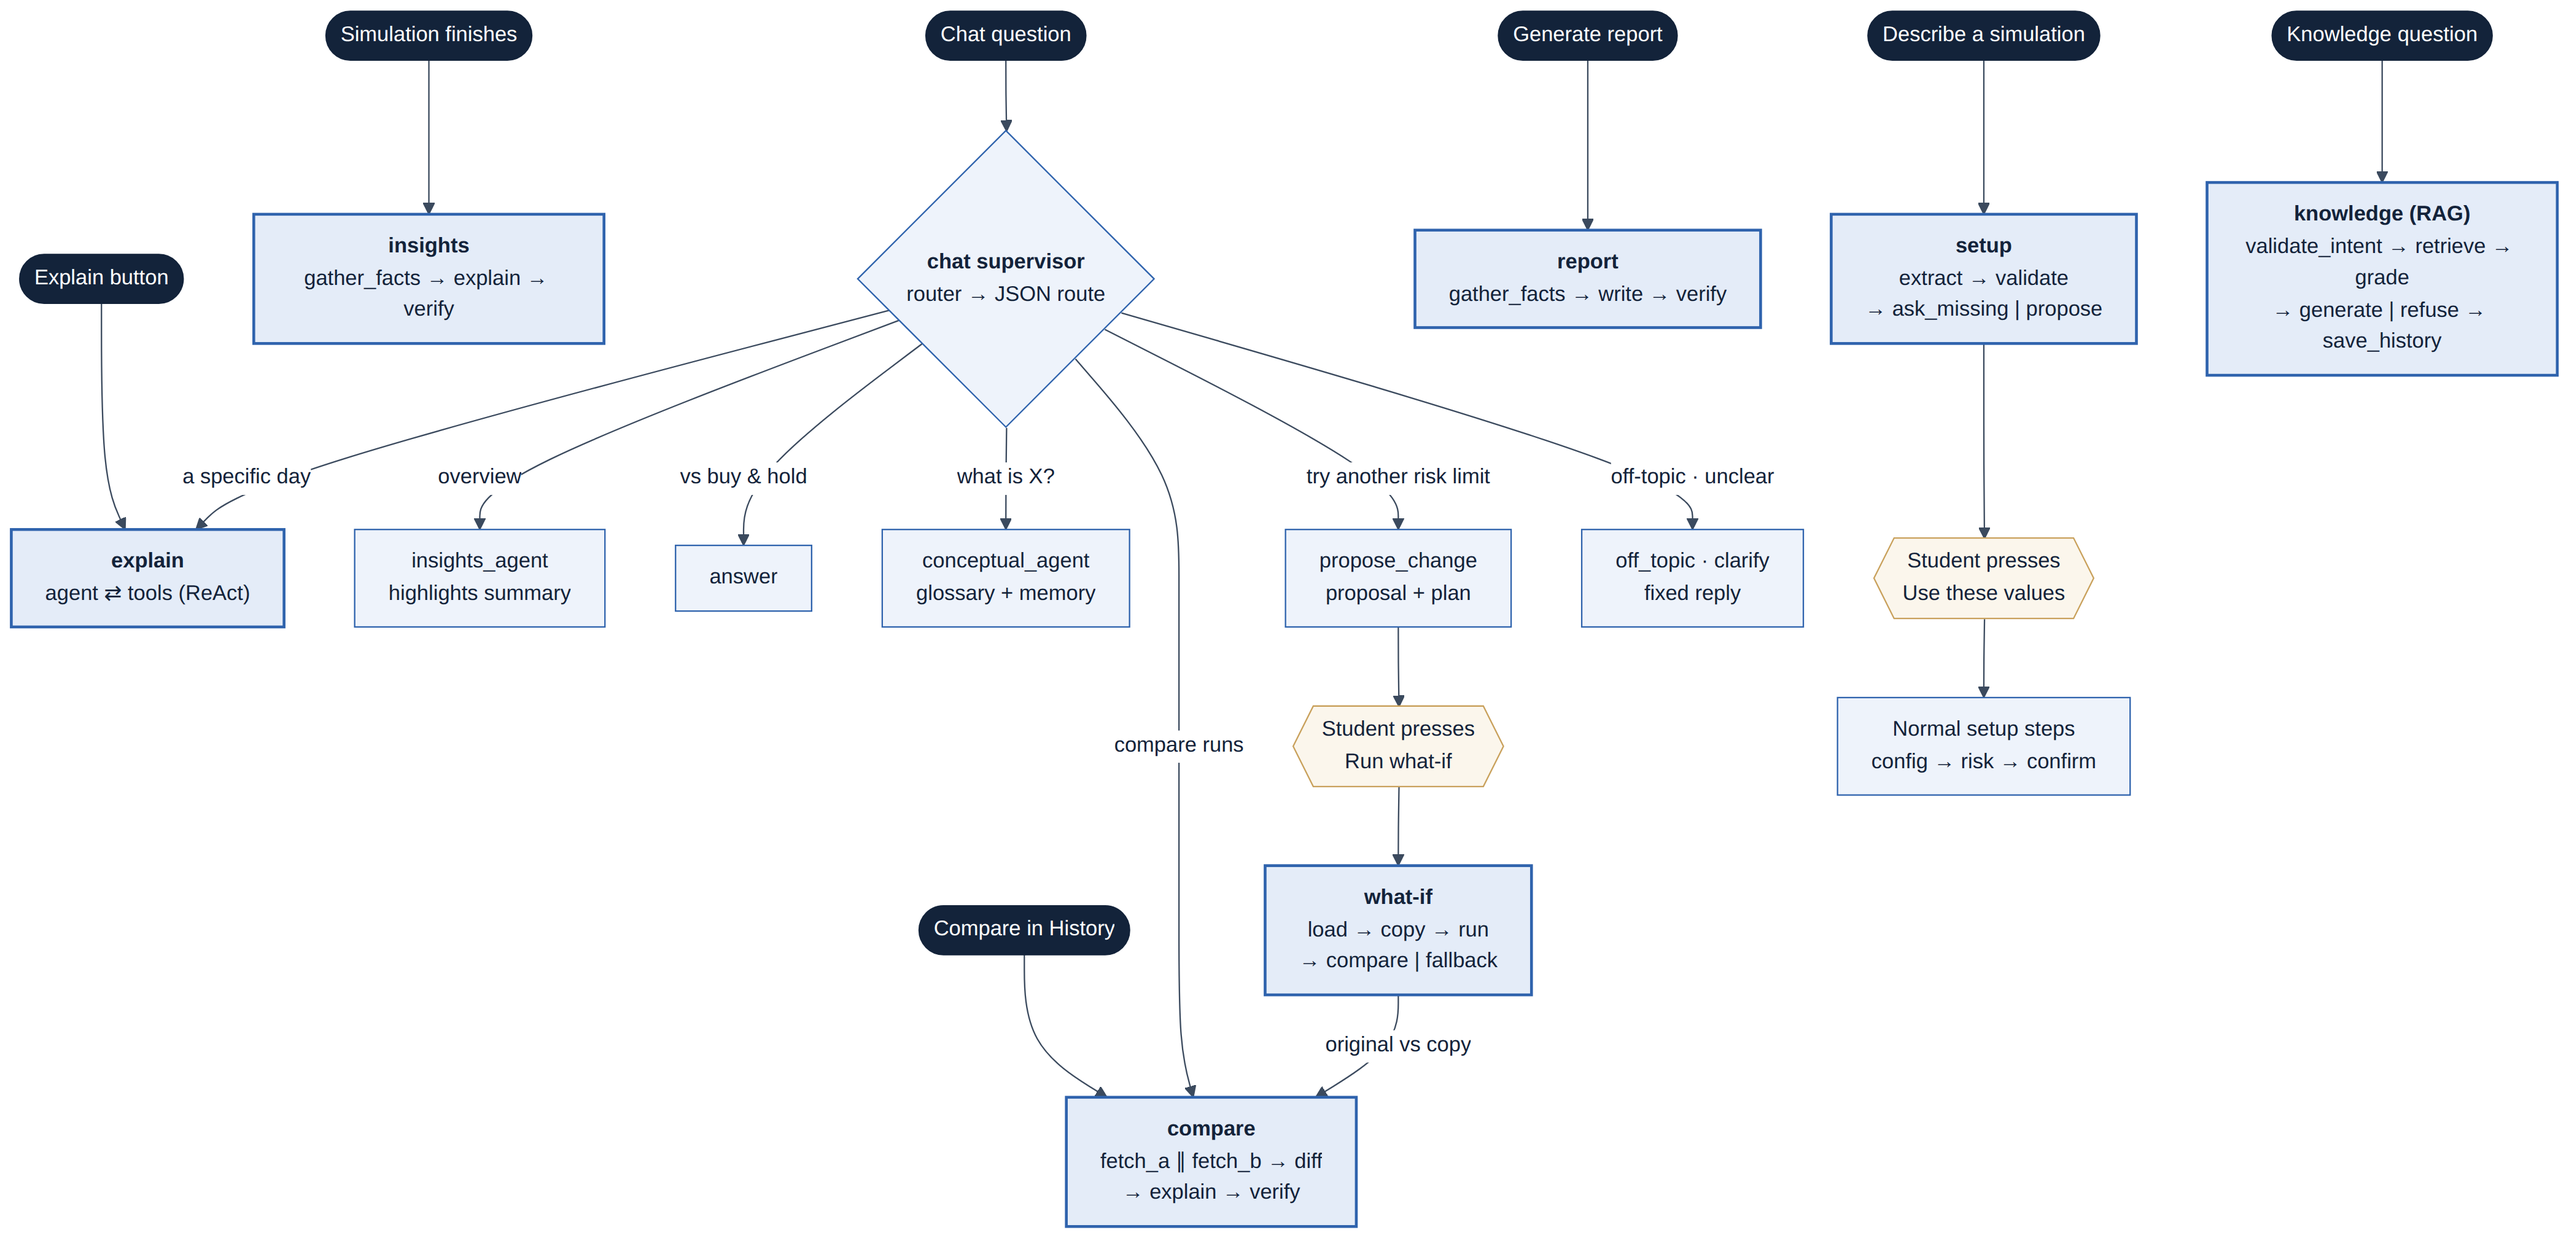
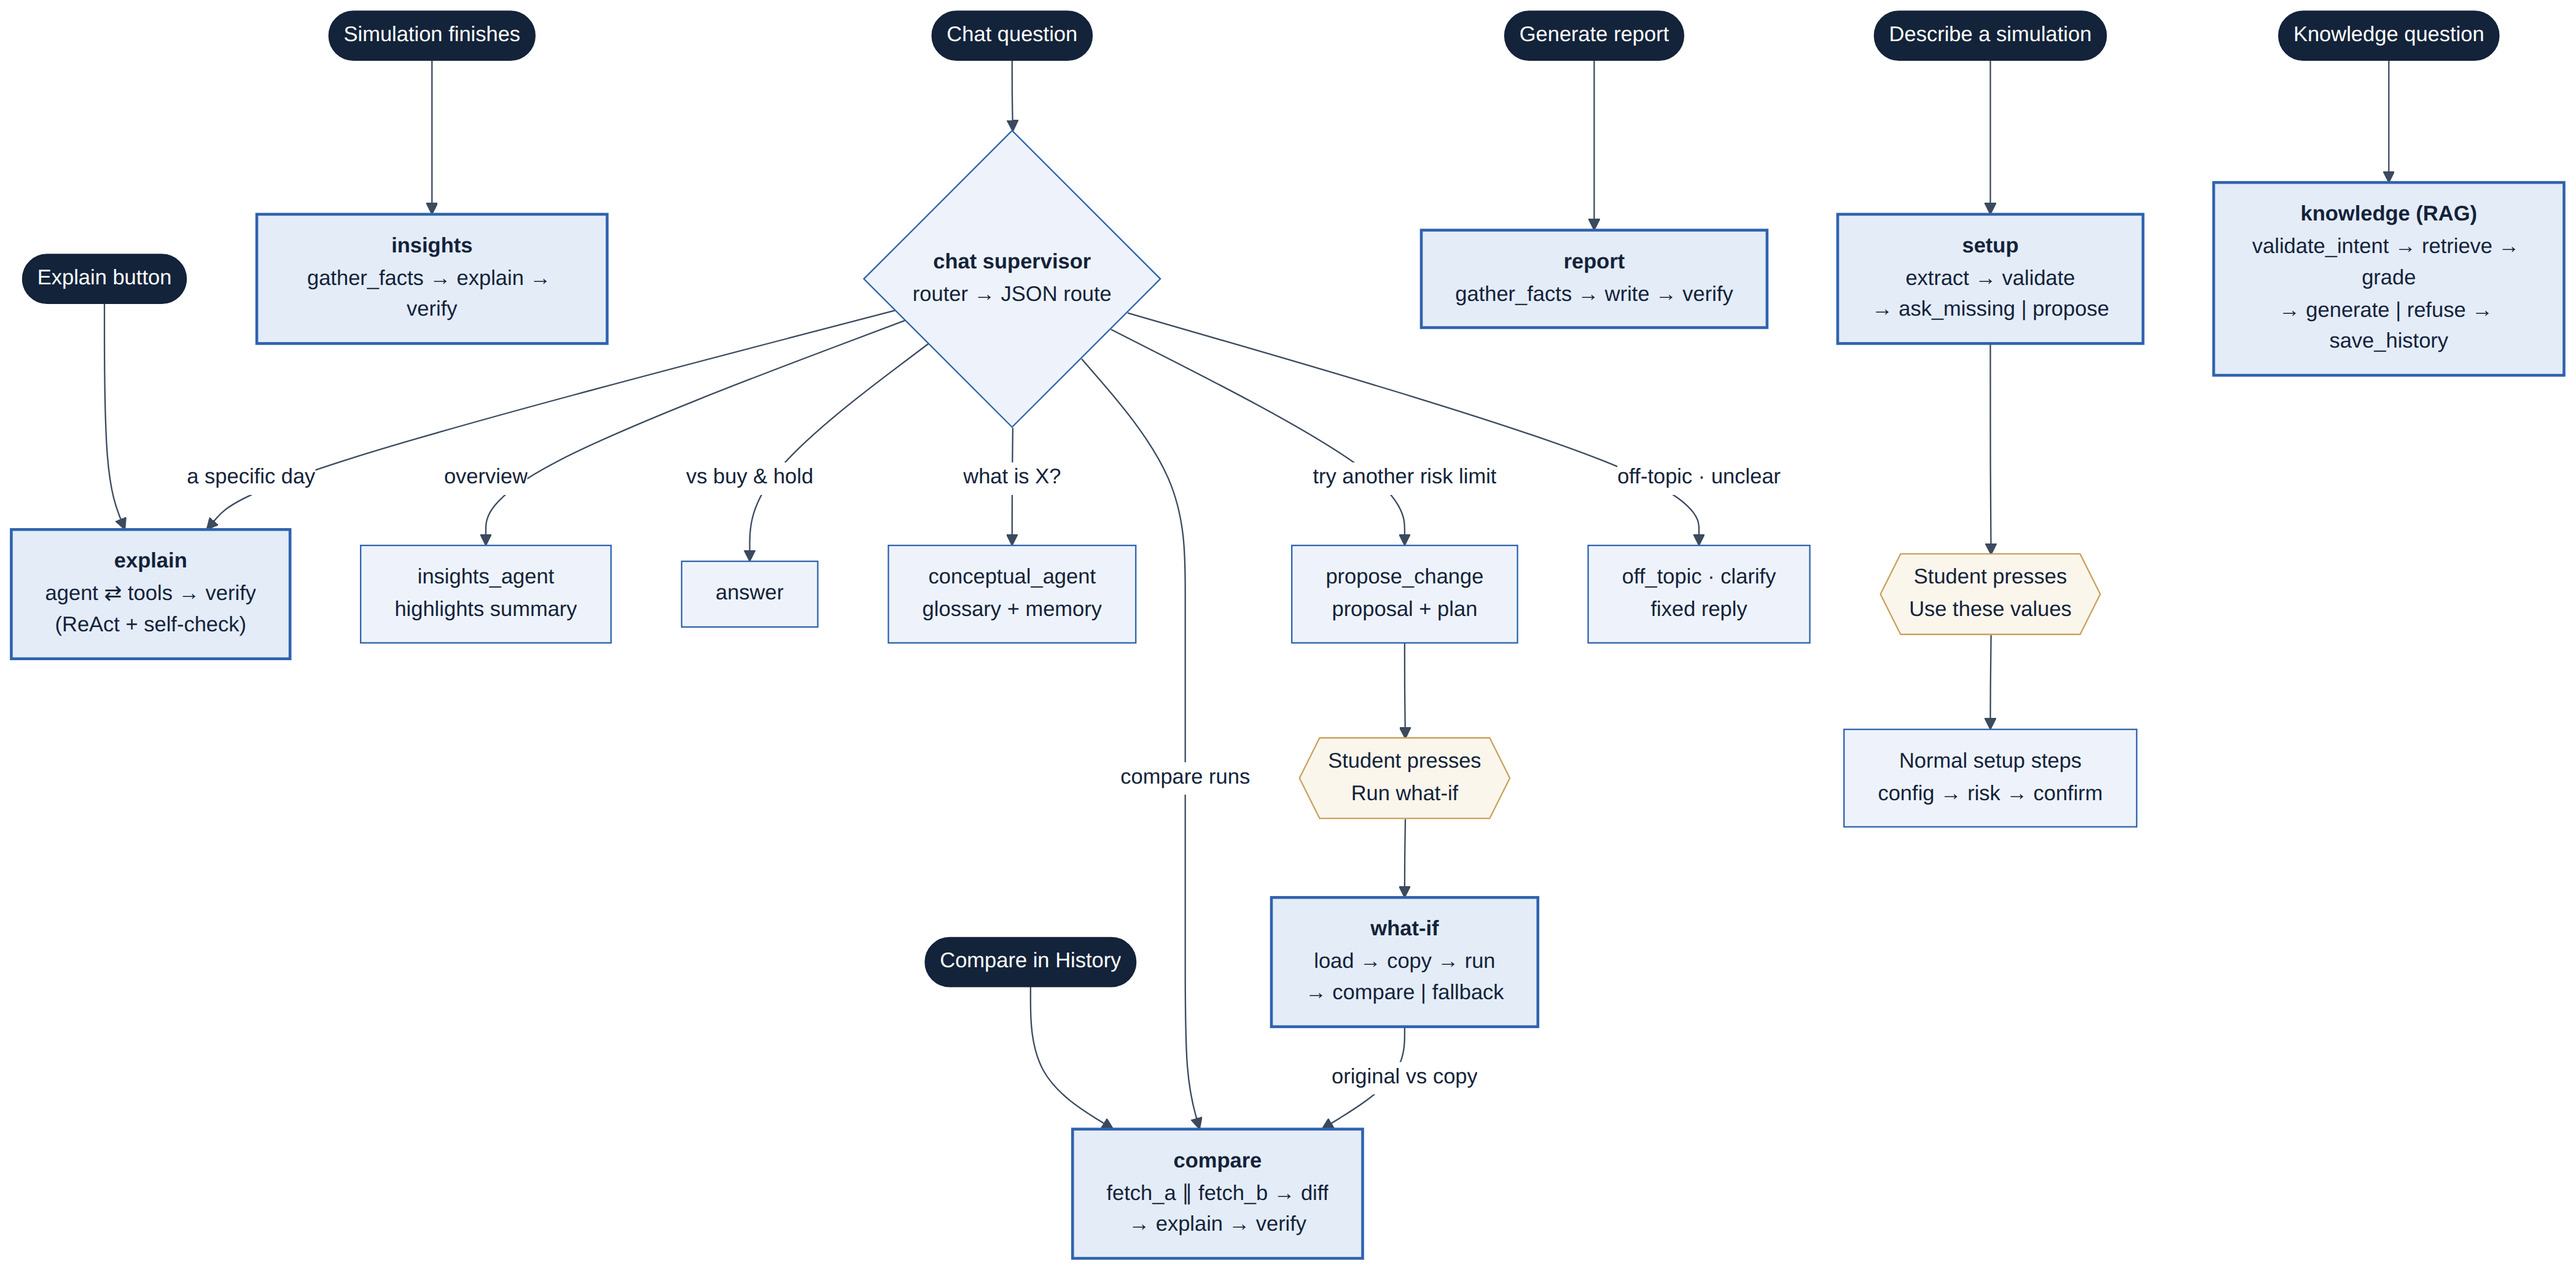
docs(agents): export every per-agent diagram with its tools
- docs/agents/graphs/<name>.png for all 9 diagrams (overview + 8 agents),
  each showing its nodes and the tools and data every node uses.
- Diagrams in agents.md restyled with a legend (node, tool, data, sub-graph);
  the overview reflects the explain verify step (US-31) and the chat diagram
  is reorganized. Each agent section links its image.

Claude-Session: https://claude.ai/code/session_01LZycAv3DB4EZdEbVF4KnBt

diff --git a/docs/agents.md b/docs/agents.md
@@ -22,23 +22,43 @@ The diagrams below are drawn by hand from the graphs exported from the code (`do
 Each entry point starts one graph. Some graphs reuse others, and two steps wait for the student before anything runs or is saved.
 
 ```mermaid
-flowchart LR
-    S((Student)) -->|Explain button| EXP[explain]
-    S -->|chat question| CHAT[chat supervisor]
-    S -->|Compare in History| CMP[compare]
-    S -->|Generate report| REP[report]
-    S -->|Describe a simulation| SET[setup]
-    S -->|Knowledge question| KNO[knowledge]
-    FIN([Simulation finished]) --> INS[insights]
+flowchart TB
+    T1(["Explain button"]) --> EXP
+    T2(["Simulation finishes"]) --> INS
+    T3(["Chat question"]) --> SUP
+    T4(["Compare in History"]) --> CMP
+    T5(["Generate report"]) --> REP
+    T6(["Describe a simulation"]) --> SET
+    T7(["Knowledge question"]) --> KNO
 
-    CHAT -->|explain_agent| EXP
-    CHAT -->|compare_agent| CMP
-    CHAT -->|propose_change| H1{{Student presses<br/>Run what-if}}
-    H1 --> WI[what-if]
-    WI -->|compare original vs copy| CMP
+    EXP["<b>explain</b><br/>agent ⇄ tools → verify<br/>(ReAct + self-check)"]
+    INS["<b>insights</b><br/>gather_facts → explain → verify"]
+    SUP{"<b>chat supervisor</b><br/>router → JSON route"}
+    CMP["<b>compare</b><br/>fetch_a ∥ fetch_b → diff<br/>→ explain → verify"]
+    REP["<b>report</b><br/>gather_facts → write → verify"]
+    SET["<b>setup</b><br/>extract → validate<br/>→ ask_missing | propose"]
+    KNO["<b>knowledge (RAG)</b><br/>validate_intent → retrieve → grade<br/>→ generate | refuse → save_history"]
 
-    SET -->|proposal| H2{{Student presses<br/>Use these values}}
-    H2 --> FORM[Normal setup steps<br/>config → risk → confirm]
+    SUP -->|a specific day| EXP
+    SUP -->|overview| SUM["insights_agent<br/>highlights summary"]
+    SUP -->|vs buy &amp; hold| ANS["answer"]
+    SUP -->|what is X?| CON["conceptual_agent<br/>glossary + memory"]
+    SUP -->|compare runs| CMP
+    SUP -->|try another risk limit| PROP["propose_change<br/>proposal + plan"]
+    SUP -->|"off-topic · unclear"| FIX["off_topic · clarify<br/>fixed reply"]
+
+    PROP --> H1{{"Student presses<br/>Run what-if"}}
+    H1 --> WI["<b>what-if</b><br/>load → copy → run<br/>→ compare | fallback"]
+    WI -->|original vs copy| CMP
+    SET --> H2{{"Student presses<br/>Use these values"}}
+    H2 --> FORM["Normal setup steps<br/>config → risk → confirm"]
+
+    classDef trigger fill:#13233a,stroke:#13233a,color:#ffffff
+    classDef subflow fill:#e4ecf8,stroke:#2f63ad,stroke-width:2px,color:#13233a
+    classDef human fill:#fbf6ec,stroke:#c9a15c,color:#13233a
+    class T1,T2,T3,T4,T5,T6,T7 trigger
+    class EXP,INS,CMP,REP,SET,KNO,WI subflow
+    class H1,H2 human
 ```
 
 ---
@@ -47,7 +67,17 @@ flowchart LR
 
 Solid arrows are the graph edges; dashed lines connect a node to the tools and data it uses. Conditional edges carry their condition as the label.
 
+| Shape | Meaning |
+|---|---|
+| Dark pill | `START` / `END` |
+| Blue box | Graph node |
+| Dashed gold box | Tool or helper the node calls |
+| Cream cylinder | Data read or written |
+| Double-border box | Another agent graph run inside the node |
+
 ### explain (US-20, US-31)
+
+Image: [`agents/graphs/explain.png`](agents/graphs/explain.png)
 
 ReAct loop: the model decides which tools to call, LangGraph runs them and gives the results back, until the model answers without tool calls. That draft then goes through a **verify** node (US-31): every sentence is checked and the ones with a date or number that no tool returned (or that promise future results) are removed, with a note for the student. The check is code, not the model grading itself. Builder: `build_agent_graph(simulation_id, user_id)`; the tools are bound to that simulation.
 
@@ -64,9 +94,19 @@ flowchart LR
     T -.- t1[get_price] & t3[get_indicators] & t5[get_market_regime] -.- d1[(simulation_signals)]
     T -.- t2[get_decision] & t6[get_ensemble_breakdown] -.- d2[(simulation_decisions)]
     T -.- t4[get_risk_config] -.- d3[(simulations +<br/>risk_configurations)]
+
+    classDef io fill:#13233a,stroke:#13233a,color:#ffffff
+    classDef tool fill:#ffffff,stroke:#c9a15c,stroke-dasharray:4 3,color:#13233a
+    classDef data fill:#fbf6ec,stroke:#c9a15c,color:#13233a
+    classDef subflow fill:#e4ecf8,stroke:#2f63ad,stroke-width:2px,color:#13233a
+    class S,E io
+    class t1,t2,t3,t4,t5,t6 tool
+    class d1,d2,d3 data
 ```
 
 ### chat (US-22/25)
+
+Image: [`agents/graphs/chat.png`](agents/graphs/chat.png)
 
 The `supervisor` asks the router model for a route as JSON (`routing/router.py`); Python validates it and resolves dates, risk proposals and the simulation to compare with. `propose_change`, `off_topic` and `clarify` answer directly from the supervisor and end the turn; `off_topic` and `clarify` always use fixed text, never the router's own wording.
 
@@ -79,19 +119,33 @@ flowchart TB
     SUP -->|answer| AN[answer]
     SUP -->|conceptual| CA[conceptual_agent]
     SUP -->|compare| CO[compare_agent]
-    SUP -->|propose_change / off_topic / clarify| E([END])
-    EA & IA & AN & CA & CO --> E
+    SUP -->|"propose_change · off_topic · clarify<br/>reply from the supervisor"| E([END])
 
     EA -.- g1[[explain graph]]
     IA -.- t1[summarize_simulation]
     AN -.- t2[buy_and_hold_comparison]
     CA -.- t3[glossary topics only<br/>+ relevant earlier turns]
     CO -.- g2[[compare graph<br/>compare_simulations_text]]
+    g1 ~~~ E
+    t1 ~~~ E
+    t2 ~~~ E
+    t3 ~~~ E
+    g2 ~~~ E
+    EA & IA & AN & CA & CO --> E
+
+    classDef io fill:#13233a,stroke:#13233a,color:#ffffff
+    classDef tool fill:#ffffff,stroke:#c9a15c,stroke-dasharray:4 3,color:#13233a
+    classDef subflow fill:#e4ecf8,stroke:#2f63ad,stroke-width:2px,color:#13233a
+    class S,E io
+    class h,t1,t2,t3 tool
+    class g1,g2 subflow
 ```
 
 The conversation is stored by a Postgres checkpointer (`modules/chat/checkpointer.py`, in-memory if `SUPABASE_DB_URL` is not set) and in `chat_messages`; `conceptual_agent` only sees the earlier turns relevant to the new question (`modules/chat/memory.py`). `propose_change` returns the proposal and its plan; it never changes anything (see what-if).
 
 ### insights (US-26)
+
+Image: [`agents/graphs/insights.png`](agents/graphs/insights.png)
 
 Started by the backend, not by a question, when a simulation reaches `FINISHED` or `STOPPED_BY_RISK`. The highlights are computed by code; the model only explains each one.
 
@@ -106,11 +160,21 @@ flowchart LR
 
     G -.- t1[get_run_overview] & t2[find_highlights] -.- d[(simulation, trades,<br/>equity curve, signals)]
     V -.- u[unverified_values]
+
+    classDef io fill:#13233a,stroke:#13233a,color:#ffffff
+    classDef tool fill:#ffffff,stroke:#c9a15c,stroke-dasharray:4 3,color:#13233a
+    classDef data fill:#fbf6ec,stroke:#c9a15c,color:#13233a
+    classDef subflow fill:#e4ecf8,stroke:#2f63ad,stroke-width:2px,color:#13233a
+    class S,E io
+    class t1,t2,u tool
+    class d data
 ```
 
 `modules/insights/service.py` stores the verified texts in `simulation_insights`.
 
 ### compare (US-27)
+
+Image: [`agents/graphs/compare.png`](agents/graphs/compare.png)
 
 Both simulations are fetched in parallel through tools bound to the student. Only a slice of each run is read, never its daily data.
 
@@ -125,11 +189,21 @@ flowchart LR
 
     A & B -.- t[simulation_slice<br/>ownership check] -.- d[("configuration, metrics,<br/>buy &amp; hold, highlights")]
     V -.- u[unverified_values · wrong_directions<br/>makes_promises]
+
+    classDef io fill:#13233a,stroke:#13233a,color:#ffffff
+    classDef tool fill:#ffffff,stroke:#c9a15c,stroke-dasharray:4 3,color:#13233a
+    classDef data fill:#fbf6ec,stroke:#c9a15c,color:#13233a
+    classDef subflow fill:#e4ecf8,stroke:#2f63ad,stroke-width:2px,color:#13233a
+    class S,E io
+    class t,u tool
+    class d data
 ```
 
 `diff` computes the configuration differences, the metric deltas, which run is better in each metric and the winner by total return. `verify` also rejects text that names the wrong run as the larger or smaller one. The `list_simulations` tool is used by the chat supervisor to resolve "my previous one".
 
 ### report (US-32)
+
+Image: [`agents/graphs/report.png`](agents/graphs/report.png)
 
 ```mermaid
 flowchart LR
@@ -141,11 +215,21 @@ flowchart LR
 
     G -.- t[load_report_data] -.- d[(configuration, results,<br/>metrics, trades, highlights)]
     V -.- u[unverified_values · makes_promises]
+
+    classDef io fill:#13233a,stroke:#13233a,color:#ffffff
+    classDef tool fill:#ffffff,stroke:#c9a15c,stroke-dasharray:4 3,color:#13233a
+    classDef data fill:#fbf6ec,stroke:#c9a15c,color:#13233a
+    classDef subflow fill:#e4ecf8,stroke:#2f63ad,stroke-width:2px,color:#13233a
+    class S,E io
+    class t,u tool
+    class d data
 ```
 
 The tables, figures and the disclaimer are written by code (`agents/report/facts.py`, `render.py`); a narrative that fails twice is dropped and the section keeps only its figures.
 
 ### setup (US-29)
+
+Image: [`agents/graphs/setup.png`](agents/graphs/setup.png)
 
 ```mermaid
 flowchart LR
@@ -157,11 +241,20 @@ flowchart LR
 
     V -.- c[coerce<br/>drop values not in the text]
     V -.- r[validate_configuration<br/>+ risk rules, read only]
+
+    classDef io fill:#13233a,stroke:#13233a,color:#ffffff
+    classDef tool fill:#ffffff,stroke:#c9a15c,stroke-dasharray:4 3,color:#13233a
+    classDef data fill:#fbf6ec,stroke:#c9a15c,color:#13233a
+    classDef subflow fill:#e4ecf8,stroke:#2f63ad,stroke-width:2px,color:#13233a
+    class S,E io
+    class c,r tool
 ```
 
 `ask_missing` and `propose` are written by code. Nothing is saved: the proposal only pre-fills the normal setup form.
 
 ### what-if (US-28)
+
+Image: [`agents/graphs/whatif.png`](agents/graphs/whatif.png)
 
 Runs only through `POST /simulations/{id}/what-if`, i.e. after the student pressed **Run what-if** on the chat proposal.
 
@@ -179,11 +272,22 @@ flowchart LR
     R -.- r[start_simulation<br/>90 s timeout]
     CM -.- g[[compare graph]]
     F -.- f[expected effect in words<br/>no numbers]
+
+    classDef io fill:#13233a,stroke:#13233a,color:#ffffff
+    classDef tool fill:#ffffff,stroke:#c9a15c,stroke-dasharray:4 3,color:#13233a
+    classDef data fill:#fbf6ec,stroke:#c9a15c,color:#13233a
+    classDef subflow fill:#e4ecf8,stroke:#2f63ad,stroke-width:2px,color:#13233a
+    class S,E io
+    class l,r,f tool
+    class c data
+    class g subflow
 ```
 
 The original configuration, risk configuration and simulation are never updated. If the compare agent is unavailable, the computed comparison is returned without its explanation.
 
 ### knowledge (US-30)
+
+Image: [`agents/graphs/knowledge.png`](agents/graphs/knowledge.png)
 
 ```mermaid
 flowchart LR
@@ -199,6 +303,14 @@ flowchart LR
     RE -.- r[rewrite query · nomic-embed-text<br/>pgvector search] -.- d[(document_chunks)]
     GR -.- g[similarity floor + grader model]
     SH -.- h[(knowledge history)]
+
+    classDef io fill:#13233a,stroke:#13233a,color:#ffffff
+    classDef tool fill:#ffffff,stroke:#c9a15c,stroke-dasharray:4 3,color:#13233a
+    classDef data fill:#fbf6ec,stroke:#c9a15c,color:#13233a
+    classDef subflow fill:#e4ecf8,stroke:#2f63ad,stroke-width:2px,color:#13233a
+    class S,E io
+    class r,g tool
+    class d,h data
 ```
 
 `generate` answers only from the retrieved passages and cites them; `refuse` returns a fixed text.
@@ -229,10 +341,9 @@ It builds every graph with a fake model and dummy settings (no Ollama, no Supaba
 
 ### PNGs for the presentation
 
-- Paste a diagram into <https://mermaid.live> and use **Export → PNG**, or
-- `npx @mermaid-js/mermaid-cli -i docs/agents/graphs/<name>.mmd -o docs/agents/graphs/<name>.png`
+Every diagram on this page, with its tools, is exported to `docs/agents/graphs/<name>.png`: `overview`, `explain`, `chat`, `insights`, `compare`, `report`, `setup`, `whatif` and `knowledge`. (The `.mmd` files next to them are the raw graphs exported from the code, without tools.)
 
-The hand-drawn diagrams on this page (with tools) can be exported the same way by saving the block to a `.mmd` file first. The overview and the chat diagram are already exported for the slides:
+After changing a diagram, export it again: paste the block into <https://mermaid.live> and use **Export → PNG**, or save it to a `.mmd` file and run `npx @mermaid-js/mermaid-cli -i <name>.mmd -o docs/agents/graphs/<name>.png`.
 
 | Overview | Chat |
 |---|---|
